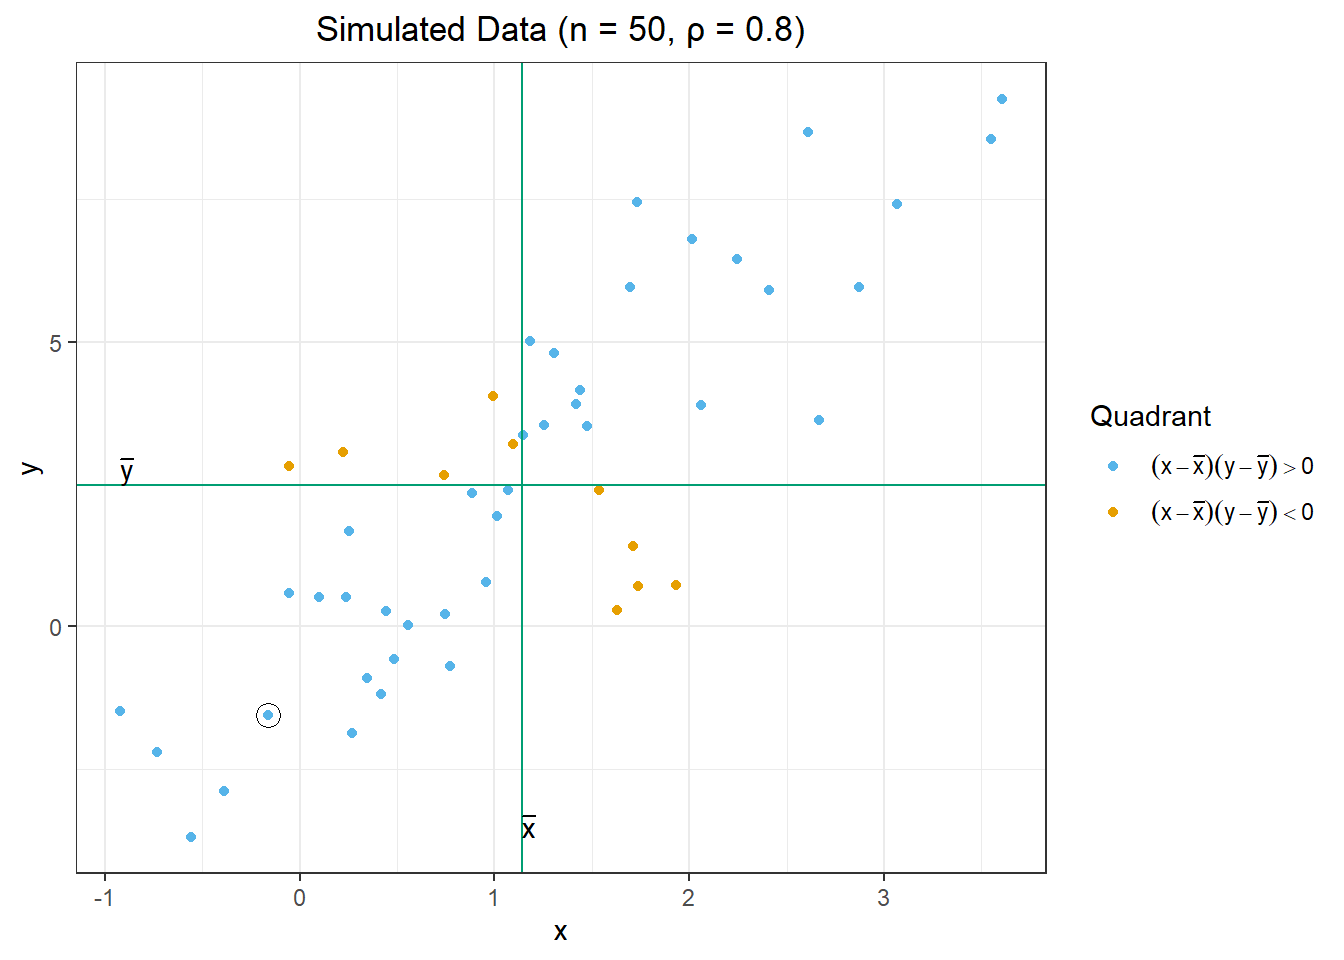
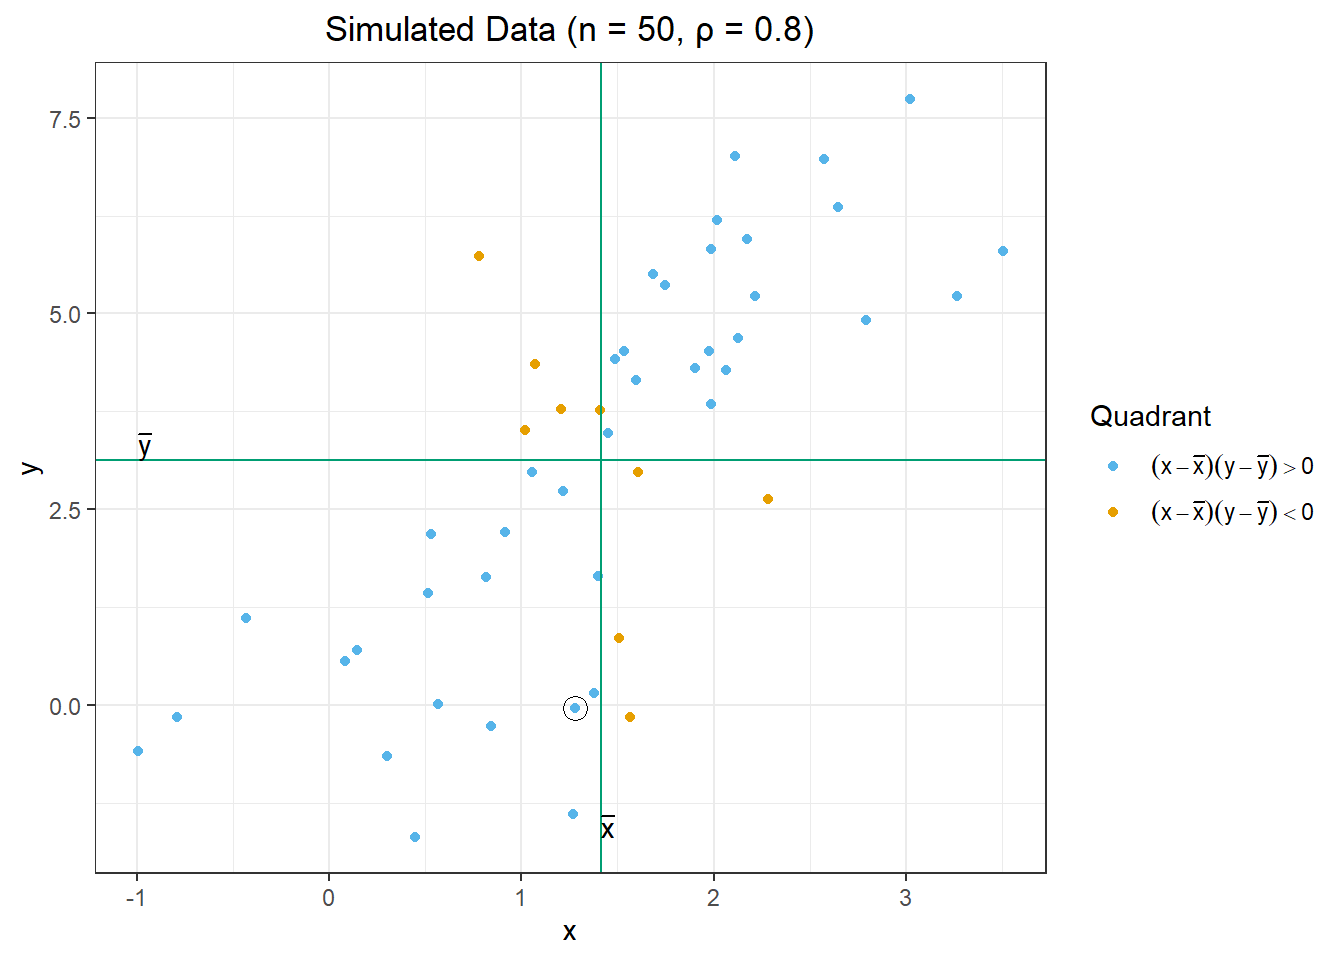
cleaned code a bit

diff --git a/chapter_2/chapter_2_lesson_1_class.html b/chapter_2/chapter_2_lesson_1_class.html
@@ -473,89 +473,111 @@ Caution
 <span id="cb4-21"><a href="#cb4-21" aria-hidden="true" tabindex="-1"></a>  <span class="fu">data.frame</span>() <span class="sc">|&gt;</span> </span>
 <span id="cb4-22"><a href="#cb4-22" aria-hidden="true" tabindex="-1"></a>  <span class="fu">rename</span>(<span class="at">x =</span> X1, <span class="at">y =</span> X2)</span></code><button title="Copy to Clipboard" class="code-copy-button"><i class="bi"></i></button></pre></div>
 </div>
-<p>The following table illustrates some of the simulated values. The mean of the <span class="math inline">\(x\)</span> values is <span class="math inline">\(\bar x = 1.141\)</span>. The mean of the <span class="math inline">\(y\)</span> values is <span class="math inline">\(\bar y =2.472\)</span>. We will soon use the values <span class="math inline">\((x-\bar x)\)</span>, <span class="math inline">\((x-\bar x)^2\)</span>, <span class="math inline">\((y-\bar y)\)</span>, <span class="math inline">\((y-\bar y)^2\)</span>, and <span class="math inline">\((x-\bar x)(y-\bar y)\)</span>. For convenience, they are included in the table below.</p>
+<p>The following table illustrates some of the simulated values. The mean of the <span class="math inline">\(x\)</span> values is <span class="math inline">\(\bar x = 1.417\)</span>. The mean of the <span class="math inline">\(y\)</span> values is <span class="math inline">\(\bar y =3.128\)</span>. We will soon use the values <span class="math inline">\((x-\bar x)\)</span>, <span class="math inline">\((x-\bar x)^2\)</span>, <span class="math inline">\((y-\bar y)\)</span>, <span class="math inline">\((y-\bar y)^2\)</span>, and <span class="math inline">\((x-\bar x)(y-\bar y)\)</span>. For convenience, they are included in the table below.</p>
 <div class="cell">
 <div class="cell-output-display">
 <table class="table table-striped table-sm small" data-quarto-postprocess="true">
 <thead>
 <tr class="header">
 <th style="text-align: center;" data-quarto-table-cell-role="th">t</th>
-<th style="text-align: center;" data-quarto-table-cell-role="th">x</th>
-<th style="text-align: center;" data-quarto-table-cell-role="th">y</th>
-<th style="text-align: center;" data-quarto-table-cell-role="th">xx</th>
-<th style="text-align: center;" data-quarto-table-cell-role="th">xx2</th>
-<th style="text-align: center;" data-quarto-table-cell-role="th">yy</th>
-<th style="text-align: center;" data-quarto-table-cell-role="th">yy2</th>
-<th style="text-align: center;" data-quarto-table-cell-role="th">xy</th>
+<th style="text-align: center;" data-quarto-table-cell-role="th">x_t</th>
+<th style="text-align: center;" data-quarto-table-cell-role="th">y_t</th>
+<th style="text-align: center;" data-quarto-table-cell-role="th">x_t-mean(x)</th>
+<th style="text-align: center;" data-quarto-table-cell-role="th">(x_t-mean(x))^2</th>
+<th style="text-align: center;" data-quarto-table-cell-role="th">y_t-mean(y)</th>
+<th style="text-align: center;" data-quarto-table-cell-role="th">(y_t-mean(y))^2</th>
+<th style="text-align: center;" data-quarto-table-cell-role="th">(x_t-mean(x))(y_t-mean(y))</th>
 <th style="text-align: center;" data-quarto-table-cell-role="th">sign</th>
 </tr>
 </thead>
 <tbody>
 <tr class="odd">
 <td style="text-align: center;">1</td>
-<td style="text-align: center;">-0.161</td>
-<td style="text-align: center;">-1.557</td>
-<td style="text-align: center;">-1.301</td>
-<td style="text-align: center;">1.693</td>
-<td style="text-align: center;">-4.03</td>
-<td style="text-align: center;">16.241</td>
-<td style="text-align: center;">5.243</td>
-<td style="text-align: center;">positive</td>
+<td style="text-align: center;">1.279</td>
+<td style="text-align: center;">-0.035</td>
+<td style="text-align: center;">-0.138</td>
+<td style="text-align: center;">0.019</td>
+<td style="text-align: center;">-3.163</td>
+<td style="text-align: center;">10.002</td>
+<td style="text-align: center;"><span style="     color: #56B4E9 !important;">0.436</span></td>
+<td style="text-align: center;"><span style="     color: #56B4E9 !important;">positive</span></td>
 </tr>
 <tr class="even">
 <td style="text-align: center;">2</td>
-<td style="text-align: center;">1.474</td>
-<td style="text-align: center;">3.519</td>
-<td style="text-align: center;">0.333</td>
-<td style="text-align: center;">0.111</td>
-<td style="text-align: center;">1.046</td>
-<td style="text-align: center;">1.095</td>
-<td style="text-align: center;">0.349</td>
-<td style="text-align: center;">positive</td>
+<td style="text-align: center;">0.516</td>
+<td style="text-align: center;">1.438</td>
+<td style="text-align: center;">-0.901</td>
+<td style="text-align: center;">0.811</td>
+<td style="text-align: center;">-1.69</td>
+<td style="text-align: center;">2.856</td>
+<td style="text-align: center;"><span style="     color: #56B4E9 !important;">1.522</span></td>
+<td style="text-align: center;"><span style="     color: #56B4E9 !important;">positive</span></td>
 </tr>
 <tr class="odd">
 <td style="text-align: center;">3</td>
-<td style="text-align: center;">0.774</td>
-<td style="text-align: center;">-0.705</td>
-<td style="text-align: center;">-0.367</td>
-<td style="text-align: center;">0.135</td>
-<td style="text-align: center;">-3.178</td>
-<td style="text-align: center;">10.097</td>
-<td style="text-align: center;">1.166</td>
-<td style="text-align: center;">positive</td>
+<td style="text-align: center;">-0.435</td>
+<td style="text-align: center;">1.11</td>
+<td style="text-align: center;">-1.852</td>
+<td style="text-align: center;">3.429</td>
+<td style="text-align: center;">-2.018</td>
+<td style="text-align: center;">4.071</td>
+<td style="text-align: center;"><span style="     color: #56B4E9 !important;">3.736</span></td>
+<td style="text-align: center;"><span style="     color: #56B4E9 !important;">positive</span></td>
 </tr>
 <tr class="even">
 <td style="text-align: center;">4</td>
-<td style="text-align: center;">1.713</td>
-<td style="text-align: center;">1.401</td>
-<td style="text-align: center;">0.572</td>
-<td style="text-align: center;">0.328</td>
-<td style="text-align: center;">-1.071</td>
-<td style="text-align: center;">1.147</td>
-<td style="text-align: center;">-0.613</td>
-<td style="text-align: center;">negative</td>
+<td style="text-align: center;">1.27</td>
+<td style="text-align: center;">-1.388</td>
+<td style="text-align: center;">-0.147</td>
+<td style="text-align: center;">0.022</td>
+<td style="text-align: center;">-4.515</td>
+<td style="text-align: center;">20.389</td>
+<td style="text-align: center;"><span style="     color: #56B4E9 !important;">0.663</span></td>
+<td style="text-align: center;"><span style="     color: #56B4E9 !important;">positive</span></td>
 </tr>
 <tr class="odd">
 <td style="text-align: center;">5</td>
-<td style="text-align: center;">2.608</td>
-<td style="text-align: center;">8.678</td>
-<td style="text-align: center;">1.467</td>
-<td style="text-align: center;">2.153</td>
-<td style="text-align: center;">6.206</td>
-<td style="text-align: center;">38.511</td>
-<td style="text-align: center;">9.106</td>
-<td style="text-align: center;">positive</td>
+<td style="text-align: center;">1.376</td>
+<td style="text-align: center;">0.15</td>
+<td style="text-align: center;">-0.041</td>
+<td style="text-align: center;">0.002</td>
+<td style="text-align: center;">-2.977</td>
+<td style="text-align: center;">8.865</td>
+<td style="text-align: center;"><span style="     color: #56B4E9 !important;">0.121</span></td>
+<td style="text-align: center;"><span style="     color: #56B4E9 !important;">positive</span></td>
 </tr>
 <tr class="even">
 <td style="text-align: center;">6</td>
-<td style="text-align: center;">2.062</td>
-<td style="text-align: center;">3.89</td>
-<td style="text-align: center;">0.921</td>
-<td style="text-align: center;">0.849</td>
-<td style="text-align: center;">1.417</td>
-<td style="text-align: center;">2.009</td>
-<td style="text-align: center;">1.306</td>
-<td style="text-align: center;">positive</td>
+<td style="text-align: center;">2.173</td>
+<td style="text-align: center;">5.956</td>
+<td style="text-align: center;">0.756</td>
+<td style="text-align: center;">0.571</td>
+<td style="text-align: center;">2.828</td>
+<td style="text-align: center;">7.999</td>
+<td style="text-align: center;"><span style="     color: #56B4E9 !important;">2.137</span></td>
+<td style="text-align: center;"><span style="     color: #56B4E9 !important;">positive</span></td>
+</tr>
+<tr class="odd">
+<td style="text-align: center;">7</td>
+<td style="text-align: center;">2.215</td>
+<td style="text-align: center;">5.218</td>
+<td style="text-align: center;">0.798</td>
+<td style="text-align: center;">0.637</td>
+<td style="text-align: center;">2.091</td>
+<td style="text-align: center;">4.371</td>
+<td style="text-align: center;"><span style="     color: #56B4E9 !important;">1.669</span></td>
+<td style="text-align: center;"><span style="     color: #56B4E9 !important;">positive</span></td>
+</tr>
+<tr class="even">
+<td style="text-align: center;">8</td>
+<td style="text-align: center;">1.508</td>
+<td style="text-align: center;">0.857</td>
+<td style="text-align: center;">0.091</td>
+<td style="text-align: center;">0.008</td>
+<td style="text-align: center;">-2.271</td>
+<td style="text-align: center;">5.156</td>
+<td style="text-align: center;"><span style="     color: #E69F00 !important;">-0.206</span></td>
+<td style="text-align: center;"><span style="     color: #E69F00 !important;">negative</span></td>
 </tr>
 <tr class="odd">
 <td style="text-align: center;">⋮</td>
@@ -570,69 +592,69 @@ Caution
 </tr>
 <tr class="even">
 <td style="text-align: center;">46</td>
-<td style="text-align: center;">0.271</td>
-<td style="text-align: center;">-1.88</td>
-<td style="text-align: center;">-0.87</td>
-<td style="text-align: center;">0.756</td>
-<td style="text-align: center;">-4.353</td>
-<td style="text-align: center;">18.946</td>
-<td style="text-align: center;">3.786</td>
-<td style="text-align: center;">positive</td>
+<td style="text-align: center;">1.215</td>
+<td style="text-align: center;">2.739</td>
+<td style="text-align: center;">-0.202</td>
+<td style="text-align: center;">0.041</td>
+<td style="text-align: center;">-0.389</td>
+<td style="text-align: center;">0.151</td>
+<td style="text-align: center;"><span style="     color: #56B4E9 !important;">0.079</span></td>
+<td style="text-align: center;"><span style="     color: #56B4E9 !important;">positive</span></td>
 </tr>
 <tr class="odd">
 <td style="text-align: center;">47</td>
-<td style="text-align: center;">-0.731</td>
-<td style="text-align: center;">-2.21</td>
-<td style="text-align: center;">-1.871</td>
-<td style="text-align: center;">3.501</td>
-<td style="text-align: center;">-4.682</td>
-<td style="text-align: center;">21.925</td>
-<td style="text-align: center;">8.761</td>
-<td style="text-align: center;">positive</td>
+<td style="text-align: center;">-0.792</td>
+<td style="text-align: center;">-0.149</td>
+<td style="text-align: center;">-2.209</td>
+<td style="text-align: center;">4.881</td>
+<td style="text-align: center;">-3.276</td>
+<td style="text-align: center;">10.733</td>
+<td style="text-align: center;"><span style="     color: #56B4E9 !important;">7.238</span></td>
+<td style="text-align: center;"><span style="     color: #56B4E9 !important;">positive</span></td>
 </tr>
 <tr class="even">
 <td style="text-align: center;">48</td>
-<td style="text-align: center;">-0.389</td>
-<td style="text-align: center;">-2.89</td>
-<td style="text-align: center;">-1.53</td>
-<td style="text-align: center;">2.34</td>
-<td style="text-align: center;">-5.362</td>
-<td style="text-align: center;">28.753</td>
-<td style="text-align: center;">8.203</td>
-<td style="text-align: center;">positive</td>
+<td style="text-align: center;">0.564</td>
+<td style="text-align: center;">0.008</td>
+<td style="text-align: center;">-0.853</td>
+<td style="text-align: center;">0.727</td>
+<td style="text-align: center;">-3.119</td>
+<td style="text-align: center;">9.73</td>
+<td style="text-align: center;"><span style="     color: #56B4E9 !important;">2.66</span></td>
+<td style="text-align: center;"><span style="     color: #56B4E9 !important;">positive</span></td>
 </tr>
 <tr class="odd">
 <td style="text-align: center;">49</td>
-<td style="text-align: center;">0.885</td>
-<td style="text-align: center;">2.347</td>
-<td style="text-align: center;">-0.256</td>
-<td style="text-align: center;">0.065</td>
-<td style="text-align: center;">-0.126</td>
-<td style="text-align: center;">0.016</td>
-<td style="text-align: center;">0.032</td>
-<td style="text-align: center;">positive</td>
+<td style="text-align: center;">1.534</td>
+<td style="text-align: center;">4.525</td>
+<td style="text-align: center;">0.117</td>
+<td style="text-align: center;">0.014</td>
+<td style="text-align: center;">1.397</td>
+<td style="text-align: center;">1.952</td>
+<td style="text-align: center;"><span style="     color: #56B4E9 !important;">0.164</span></td>
+<td style="text-align: center;"><span style="     color: #56B4E9 !important;">positive</span></td>
 </tr>
 <tr class="even">
 <td style="text-align: center;">50</td>
-<td style="text-align: center;">0.557</td>
-<td style="text-align: center;">0.022</td>
-<td style="text-align: center;">-0.583</td>
-<td style="text-align: center;">0.34</td>
-<td style="text-align: center;">-2.45</td>
-<td style="text-align: center;">6.004</td>
-<td style="text-align: center;">1.429</td>
-<td style="text-align: center;">positive</td>
+<td style="text-align: center;">3.506</td>
+<td style="text-align: center;">5.802</td>
+<td style="text-align: center;">2.089</td>
+<td style="text-align: center;">4.364</td>
+<td style="text-align: center;">2.674</td>
+<td style="text-align: center;">7.153</td>
+<td style="text-align: center;"><span style="     color: #56B4E9 !important;">5.587</span></td>
+<td style="text-align: center;"><span style="     color: #56B4E9 !important;">positive</span></td>
 </tr>
 <tr class="odd">
 <td style="text-align: center;">sum</td>
-<td style="text-align: center;">57.026</td>
-<td style="text-align: center;">123.624</td>
+<td style="text-align: center;">70.853</td>
+<td style="text-align: center;">156.38</td>
 <td style="text-align: center;">0</td>
-<td style="text-align: center;">55.013</td>
+<td style="text-align: center;">44.236</td>
 <td style="text-align: center;">0</td>
-<td style="text-align: center;">494.705</td>
-<td style="text-align: center;">137.068</td>
-<td style="text-align: center;">positive</td>
+<td style="text-align: center;">301.979</td>
+<td style="text-align: center;"><span style="     color: #56B4E9 !important;">84.523</span></td>
+<td style="text-align: center;"><span style="     color: #56B4E9 !important;">positive</span></td>
 </tr>
 </tbody>
 </table>
@@ -653,13 +675,13 @@ Caution
 </ul>
 <p>To compute the sample covariance, we divide the sum of the <span class="math inline">\((x - \bar x)(y - \bar y)\)</span> values by <span class="math inline">\(n-1\)</span>:</p>
 <p><span class="math display">\[
-Cov(x,y)
+cov(x,y)
 =
 \frac{\sum\limits_{t=1}^n (x - \bar x)(y - \bar y)}{n-1}
 =
-\frac{137.068}{50 - 1}
+\frac{84.523}{50 - 1}
 =
-2.797
+1.725
 \]</span></p>
 <p>You can think of this as an “average” of the <span class="math inline">\((x - \bar x)(y - \bar y)\)</span> values. The only difference is that we divide by <span class="math inline">\(n-1\)</span> instead of <span class="math inline">\(n\)</span>.</p>
 <ul>
@@ -674,38 +696,38 @@ s_x &amp;= \sqrt{ \frac{\sum\limits_{t=1}^n (x - \bar x)^2}{n-1} }
 =
 \sqrt{
 \frac{
-55.013
+44.236
 }{
 50-1
 }
 }
 =
-1.06
+0.95
 \\
 s_y &amp;= \sqrt{ \frac{\sum\limits_{t=1}^n (y - \bar y)^2}{n-1} }
 =
 \sqrt{
 \frac{
-494.705
+301.979
 }{
 50-1
 }
 }
 =
-3.177
+2.483
 \end{align*}
 \]</span></p>
 <p>The sample correlation coefficient is: <span class="math display">\[
 r = \frac{\sum\limits_{t=1}^n (x - \bar x)(y - \bar y)}{\sqrt{\sum\limits_{t=1}^n (x - \bar x)^2} \sqrt{\sum\limits_{t=1}^n (y - \bar y)^2}}
 =
 \frac{
-137.068
+84.523
 }{
-\sqrt{ 55.013}
-\sqrt{ 494.705}
+\sqrt{ 44.236}
+\sqrt{ 301.979}
 }
 =
-0.831
+0.731
 \]</span></p>
 <ul>
 <li><p>What do you get if you multiply the equations for <span class="math inline">\(r\)</span>, <span class="math inline">\(s_x\)</span>, and <span class="math inline">\(s_y\)</span> together?</p>
@@ -724,15 +746,15 @@ r = \frac{\sum\limits_{t=1}^n (x - \bar x)(y - \bar y)}{\sqrt{\sum\limits_{t=1}^
 </ul>
 <!-- Solution
 $$
-Cov(x,y) = r \cdot s_x \cdot s_y 
+cov(x,y) = r \cdot s_x \cdot s_y 
 =
-0.831
+0.731
 \cdot 
-1.06
+0.95
 \cdot 
-3.177
+2.483
 =
-2.797
+1.725
 $$
  -->
 </section>
@@ -745,7 +767,7 @@ $$
 <li><span class="math inline">\(s_x =\)</span></li>
 <li><span class="math inline">\(s_y =\)</span></li>
 <li><span class="math inline">\(r =\)</span></li>
-<li><span class="math inline">\(Cov(x,y) =\)</span></li>
+<li><span class="math inline">\(cov(x,y) =\)</span></li>
 </ul>
 <div class="cell">
 <div class="cell-output-display">
@@ -921,7 +943,7 @@ $$
 <li><p><span class="math inline">\(s_x = 1.7922053\)</span></p></li>
 <li><p><span class="math inline">\(s_y = 1.6887865\)</span></p></li>
 <li><p><span class="math inline">\(r = -0.9449384\)</span></p></li>
-<li><p><span class="math inline">\(Cov(x,y) = -2.86\)</span></p></li>
+<li><p><span class="math inline">\(cov(x,y) = -2.86\)</span></p></li>
 </ul>
 <div class="cell">
 <div class="sourceCode cell-code" id="cb5"><pre class="sourceCode r code-with-copy"><code class="sourceCode r"><span id="cb5-1"><a href="#cb5-1" aria-hidden="true" tabindex="-1"></a>knitr<span class="sc">::</span><span class="fu">kable</span>(temp, <span class="at">format =</span> <span class="st">"html"</span>, <span class="at">align=</span><span class="st">'cccccccc'</span>, <span class="at">escape =</span> <span class="cn">FALSE</span>, <span class="at">width =</span> <span class="cn">NA</span>) <span class="sc">|&gt;</span></span>
